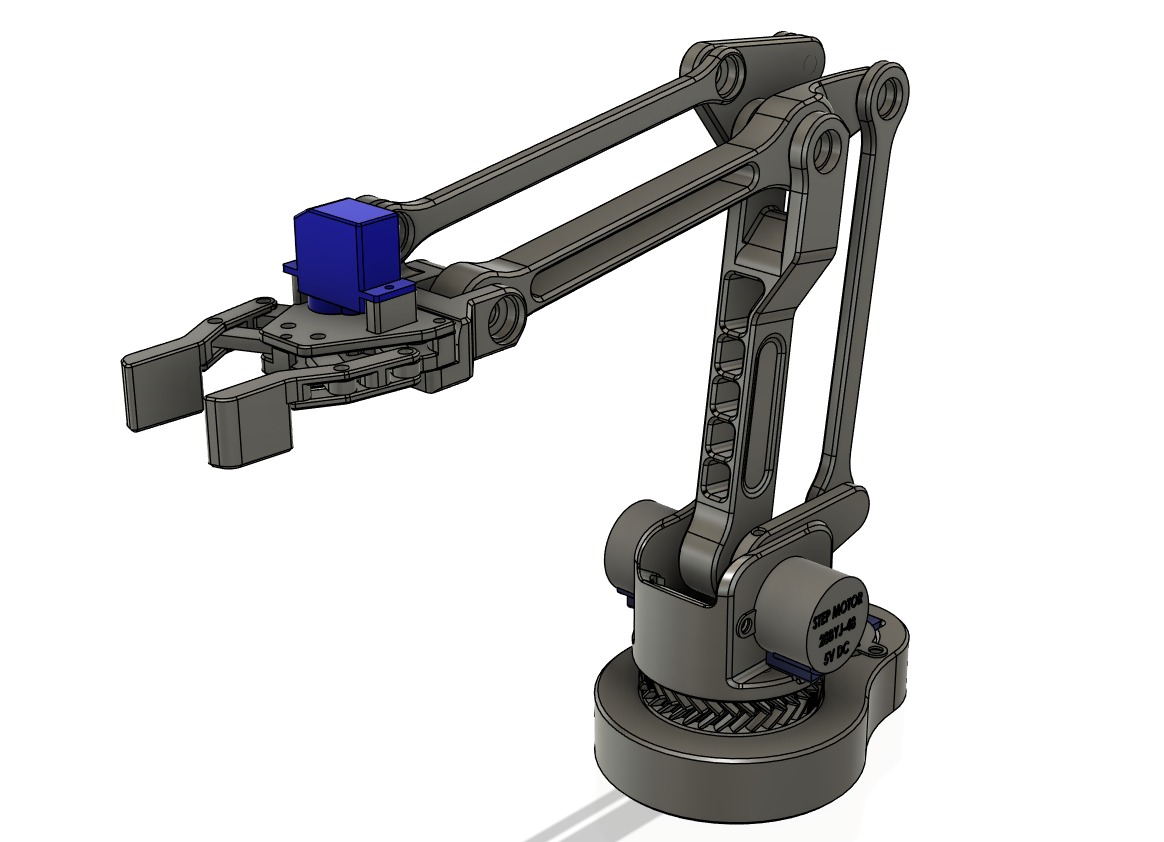
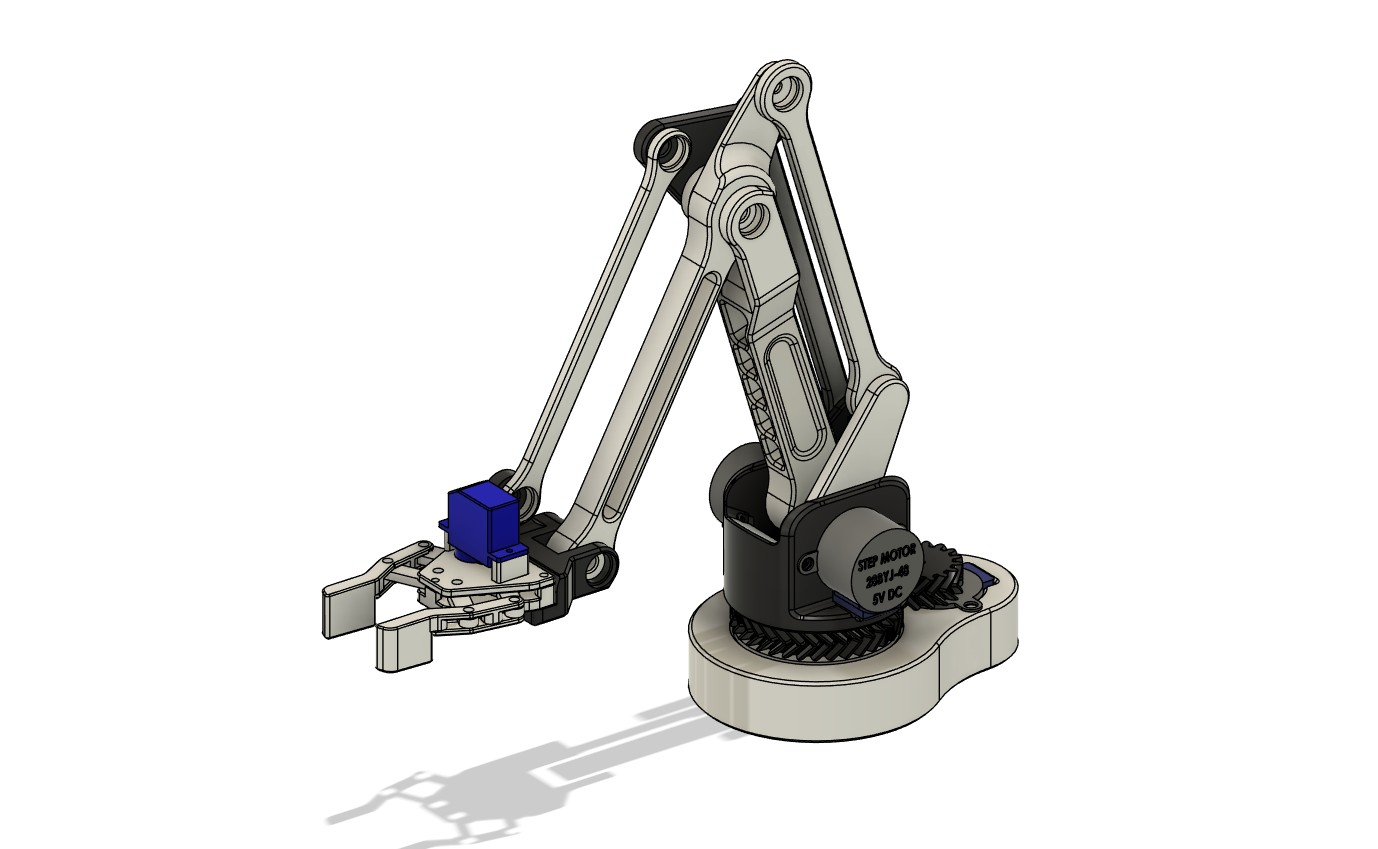
a

diff --git a/projects/robotic-arm.html b/projects/robotic-arm.html
@@ -29,6 +29,13 @@
 
     <!-- HEADER -->
     <header class="detail-header">
+        <div class="detail-team">
+            <span class="detail-team-label">TEAM</span>
+            <div class="detail-team-members">
+                <span class="detail-team-member">Ahmed Alali</span>
+                <span class="detail-team-member">Abdirazaq Ahmed</span>
+            </div>
+        </div>
         <span class="detail-eyebrow">Robotics &amp; Embedded · 2026</span>
         <h1 class="detail-title">Color-Sorting<br>Robotic Arm</h1>
         <div class="detail-meta">
@@ -125,15 +132,15 @@
                 </div>
                 <div class="spec-item">
                     <span class="spec-label">Joint Bearings</span>
-                    <span class="spec-value">Single-flange bearings at each pivot. One bearing per joint keeps the design compact while giving smooth, stable rotation with no rattle.</span>
+                    <span class="spec-value">Single-flange bearings at each pivot. One bearing per joint keeps the design compact and low cost while giving smooth, stable rotation with no rattle.</span>
                 </div>
                 <div class="spec-item">
                     <span class="spec-label">4-Bar Linkages</span>
-                    <span class="spec-value">Parallel 4-bar system passively keeps the end-effector horizontal at any arm angle — eliminates the need for a powered wrist DOF.</span>
+                    <span class="spec-value">Parallel 4-bar system passively keeps the gripper horizontal at all positions  eliminates the need for a separate wrist DOF.</span>
                 </div>
                 <div class="spec-item">
                     <span class="spec-label">Gripper</span>
-                    <span class="spec-value">Parallel servo gripper — both fingers move symmetrically, keeping the gripped object centred on the wrist axis regardless of grip force.</span>
+                    <span class="spec-value">Parallel servo gripper both jaws move symmetrically, keeping the gripped object centred on the wrist axis regardless of grip force.</span>
                 </div>
             </div>
 
@@ -144,8 +151,8 @@
                     <div class="img-cell-caption">CAD — front isometric, 4-bar linkage and elbow joint</div>
                 </div>
                 <div class="img-cell img-cell-lg">
-                    <img src="../Media/Robotic Arm/Cad arm.jpg" alt="CAD extended position">
-                    <div class="img-cell-caption">CAD — extended reach position</div>
+                    <img src="../Media/Robotic Arm/CAd arm backview different ratio.jpg" alt="CAD extended position">
+                    <div class="img-cell-caption">CAD — Back view, different position</div>
                 </div>
             </div>
 
@@ -153,7 +160,7 @@
             <div class="img-grid img-grid-2">
                 <div class="img-cell img-cell-sq">
                     <img src="../Media/Robotic Arm/wireframe sideview.jpg" alt="Wireframe side view">
-                    <div class="img-cell-caption">Wireframe — side view, herringbone base gear detail</div>
+                    <div class="img-cell-caption">Wireframe — side view</div>
                 </div>
                 <div class="img-cell img-cell-sq">
                     <img src="../Media/Robotic Arm/Wireframe alternate view.jpg" alt="Wireframe 3/4 view">
@@ -163,7 +170,7 @@
 
             <!-- Gripper CAD + gear photo -->
             <div class="img-grid img-grid-2">
-                <div class="img-cell img-cell-lg">
+                <div class="img-cell img-cell-tall">
                     <img src="../Media/Robotic Arm/Cad gripper closeup.jpg" alt="Gripper CAD closeup">
                     <div class="img-cell-caption">CAD — parallel gripper, servo mount, and linkage pivot</div>
                 </div>
@@ -177,7 +184,9 @@
         <!-- ── ELECTRONICS & FIRMWARE ──────────────────────────── -->
         <div class="detail-section">
             <h2>Electronics &amp; Firmware</h2>
-            <p>The PIC18 runs firmware written in C (MicroC for PIC). Each 28BYJ-48 is driven by a ULN2003 driver. The TCS3200 sits at the front and outputs RGB as frequency ratios; the firmware classifies this data to determine the color of the cube a one-time calibration step.</p>
+            <p>The PIC18 runs firmware written in C (MicroC for PIC). Each 28BYJ-48 is driven by a ULN2003 driver.
+                 The TCS3200 sits at the front and outputs RGB as frequency ratios; 
+                 the firmware classifies this data to determine the color of the cube which is pre calibrated along with the different positions of the arm.</p>
             <p>Control is a pure sequential state machine: home → move to pick → grip → lift and scan → move to bin → release → home. An LCD shows the current state so you can follow the logic in real time.</p>
 
             <div class="img-grid img-grid-2">
@@ -238,11 +247,11 @@
             <div class="img-grid img-grid-2">
                 <div class="img-cell img-cell-tall">
                     <img src="../Media/Robotic Arm/Joint 2.jpg" alt="Elbow joint closeup">
-                    <div class="img-cell-caption">Elbow — 4-bar pivot with single flange bearing s</div>
+                    <div class="img-cell-caption">Secondary arm joints</div>
                 </div>
                 <div class="img-cell img-cell-tall">
                     <img src="../Media/Robotic Arm/Joints1.jpg" alt="Shoulder joint">
-                    <div class="img-cell-caption">Shoulder joint assembly — bearing seat and stepper mount</div>
+                    <div class="img-cell-caption">Bearing joints </div>
                 </div>
             </div>
 

diff --git a/styles.css b/styles.css
@@ -230,7 +230,7 @@ p {
 
 .mono-tag {
     font-family: var(--mono);
-    font-size: 0.85rem;
+    font-size: 0.95rem;
     letter-spacing: 0.2em;
     color: var(--muted);
     text-transform: uppercase;
@@ -284,7 +284,7 @@ p {
 .meta-label {
     display: block;
     font-family: var(--mono);
-    font-size: 0.6rem;
+    font-size: 1rem;
     letter-spacing: 0.22em;
     color: var(--accent);
     text-transform: uppercase;
@@ -293,7 +293,7 @@ p {
 
 .meta-list { display: flex; flex-direction: column; gap: 0.25rem; }
 .meta-list li {
-    font-size: 0.85rem;
+    font-size: 1rem;
     color: var(--text);
     padding-left: 1.1rem;
     position: relative;
@@ -351,7 +351,7 @@ p {
 
 .skill-tag {
     font-family: 'Bebas Neue', sans-serif;
-    font-size: 0.88rem;
+    font-size: 1.2rem;
     letter-spacing: 0.1em;
     color: var(--dim);
     display: flex;
@@ -361,7 +361,7 @@ p {
 
 .skill-num {
     font-family: var(--mono);
-    font-size: 0.58rem;
+    font-size: 0.9rem;
     color: var(--accent);
 }
 
@@ -765,6 +765,43 @@ main {
     margin: 0 auto;
     padding: 1rem 2rem 2.5rem;
     border-bottom: 1px solid var(--border);
+    position: relative;
+}
+
+.detail-team {
+    position: absolute;
+    top: 1rem;
+    right: 2rem;
+    text-align: right;
+}
+
+.detail-team-label {
+    font-family: var(--mono);
+    font-size: 0.58rem;
+    letter-spacing: 0.2em;
+    color: var(--accent);
+    text-transform: uppercase;
+    display: block;
+    margin-bottom: 0.5rem;
+}
+
+.detail-team-members {
+    display: flex;
+    flex-direction: column;
+    gap: 0.25rem;
+}
+
+.detail-team-member {
+    font-size: 0.82rem;
+    color: var(--text);
+}
+
+@media (max-width: 640px) {
+    .detail-team {
+        position: static;
+        text-align: left;
+        margin-top: 1.5rem;
+    }
 }
 
 .detail-eyebrow {

diff --git a/projects/edp-2025.html b/projects/edp-2025.html
@@ -29,6 +29,14 @@
 
     <!-- HEADER -->
     <header class="detail-header">
+        <div class="detail-team">
+            <span class="detail-team-label">TEAM</span>
+            <div class="detail-team-members">
+                <span class="detail-team-member">Hamza Al Joulany</span>
+                <span class="detail-team-member">Ahmed Taha</span>
+                <span class="detail-team-member">Abdulrahman Mamdouh</span>
+            </div>
+        </div>
         <span class="detail-eyebrow">IEEE Student Day UAE · Engineering Design Project · 2025</span>
         <h1 class="detail-title">Precision<br>Catapult</h1>
         <div class="detail-meta">

diff --git a/projects/cdp-2025.html b/projects/cdp-2025.html
@@ -29,6 +29,14 @@
 
     <!-- HEADER -->
     <header class="detail-header">
+        <div class="detail-team">
+            <span class="detail-team-label">TEAM</span>
+            <div class="detail-team-members">
+                <span class="detail-team-member">Yogesh Rajendran</span>
+                <span class="detail-team-member">Ahmed Ghazi</span>
+                <span class="detail-team-member">Abdallah Salmo</span>
+            </div>
+        </div>
         <span class="detail-eyebrow">IEEE Common Design Project · Internal Competition · 2025</span>
         <h1 class="detail-title">Line-Following<br>Robot</h1>
         <div class="detail-meta">

diff --git a/projects/cdp-2026.html b/projects/cdp-2026.html
@@ -29,6 +29,12 @@
 
     <!-- HEADER -->
     <header class="detail-header">
+        <div class="detail-team">
+            <span class="detail-team-label">TEAM</span>
+            <div class="detail-team-members">
+                <span class="detail-team-member">Yogesh Rajendran</span>
+            </div>
+        </div>
         <span class="detail-eyebrow">IEEE Common Design Project · 2026</span>
         <h1 class="detail-title">Ball-Redirecting<br>Goal Robot</h1>
         <div class="detail-meta">
